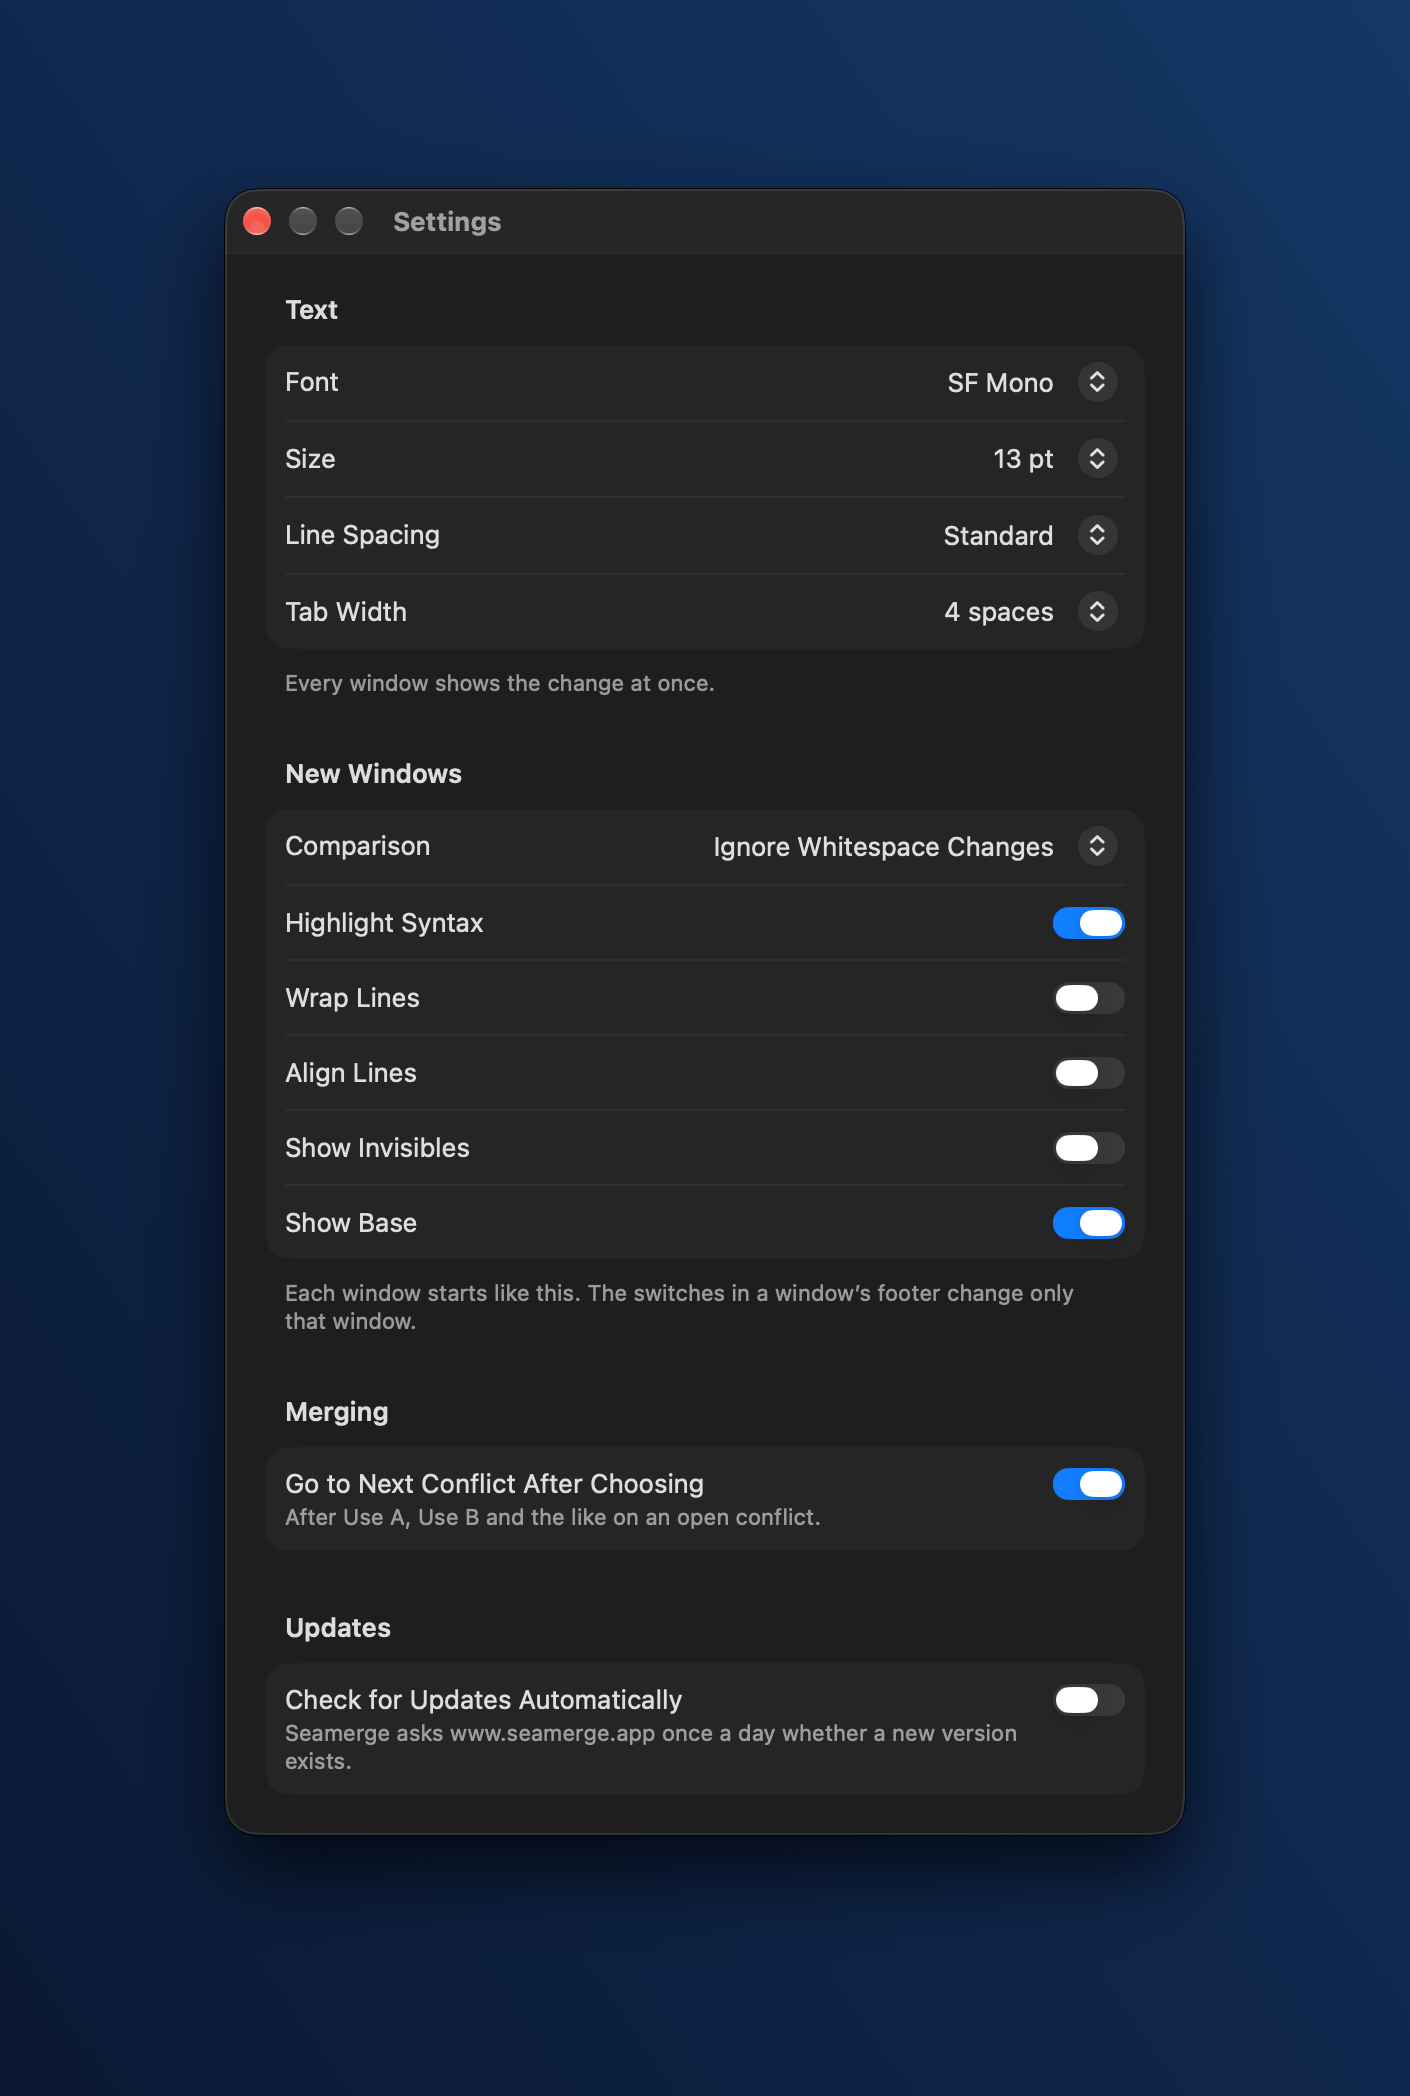
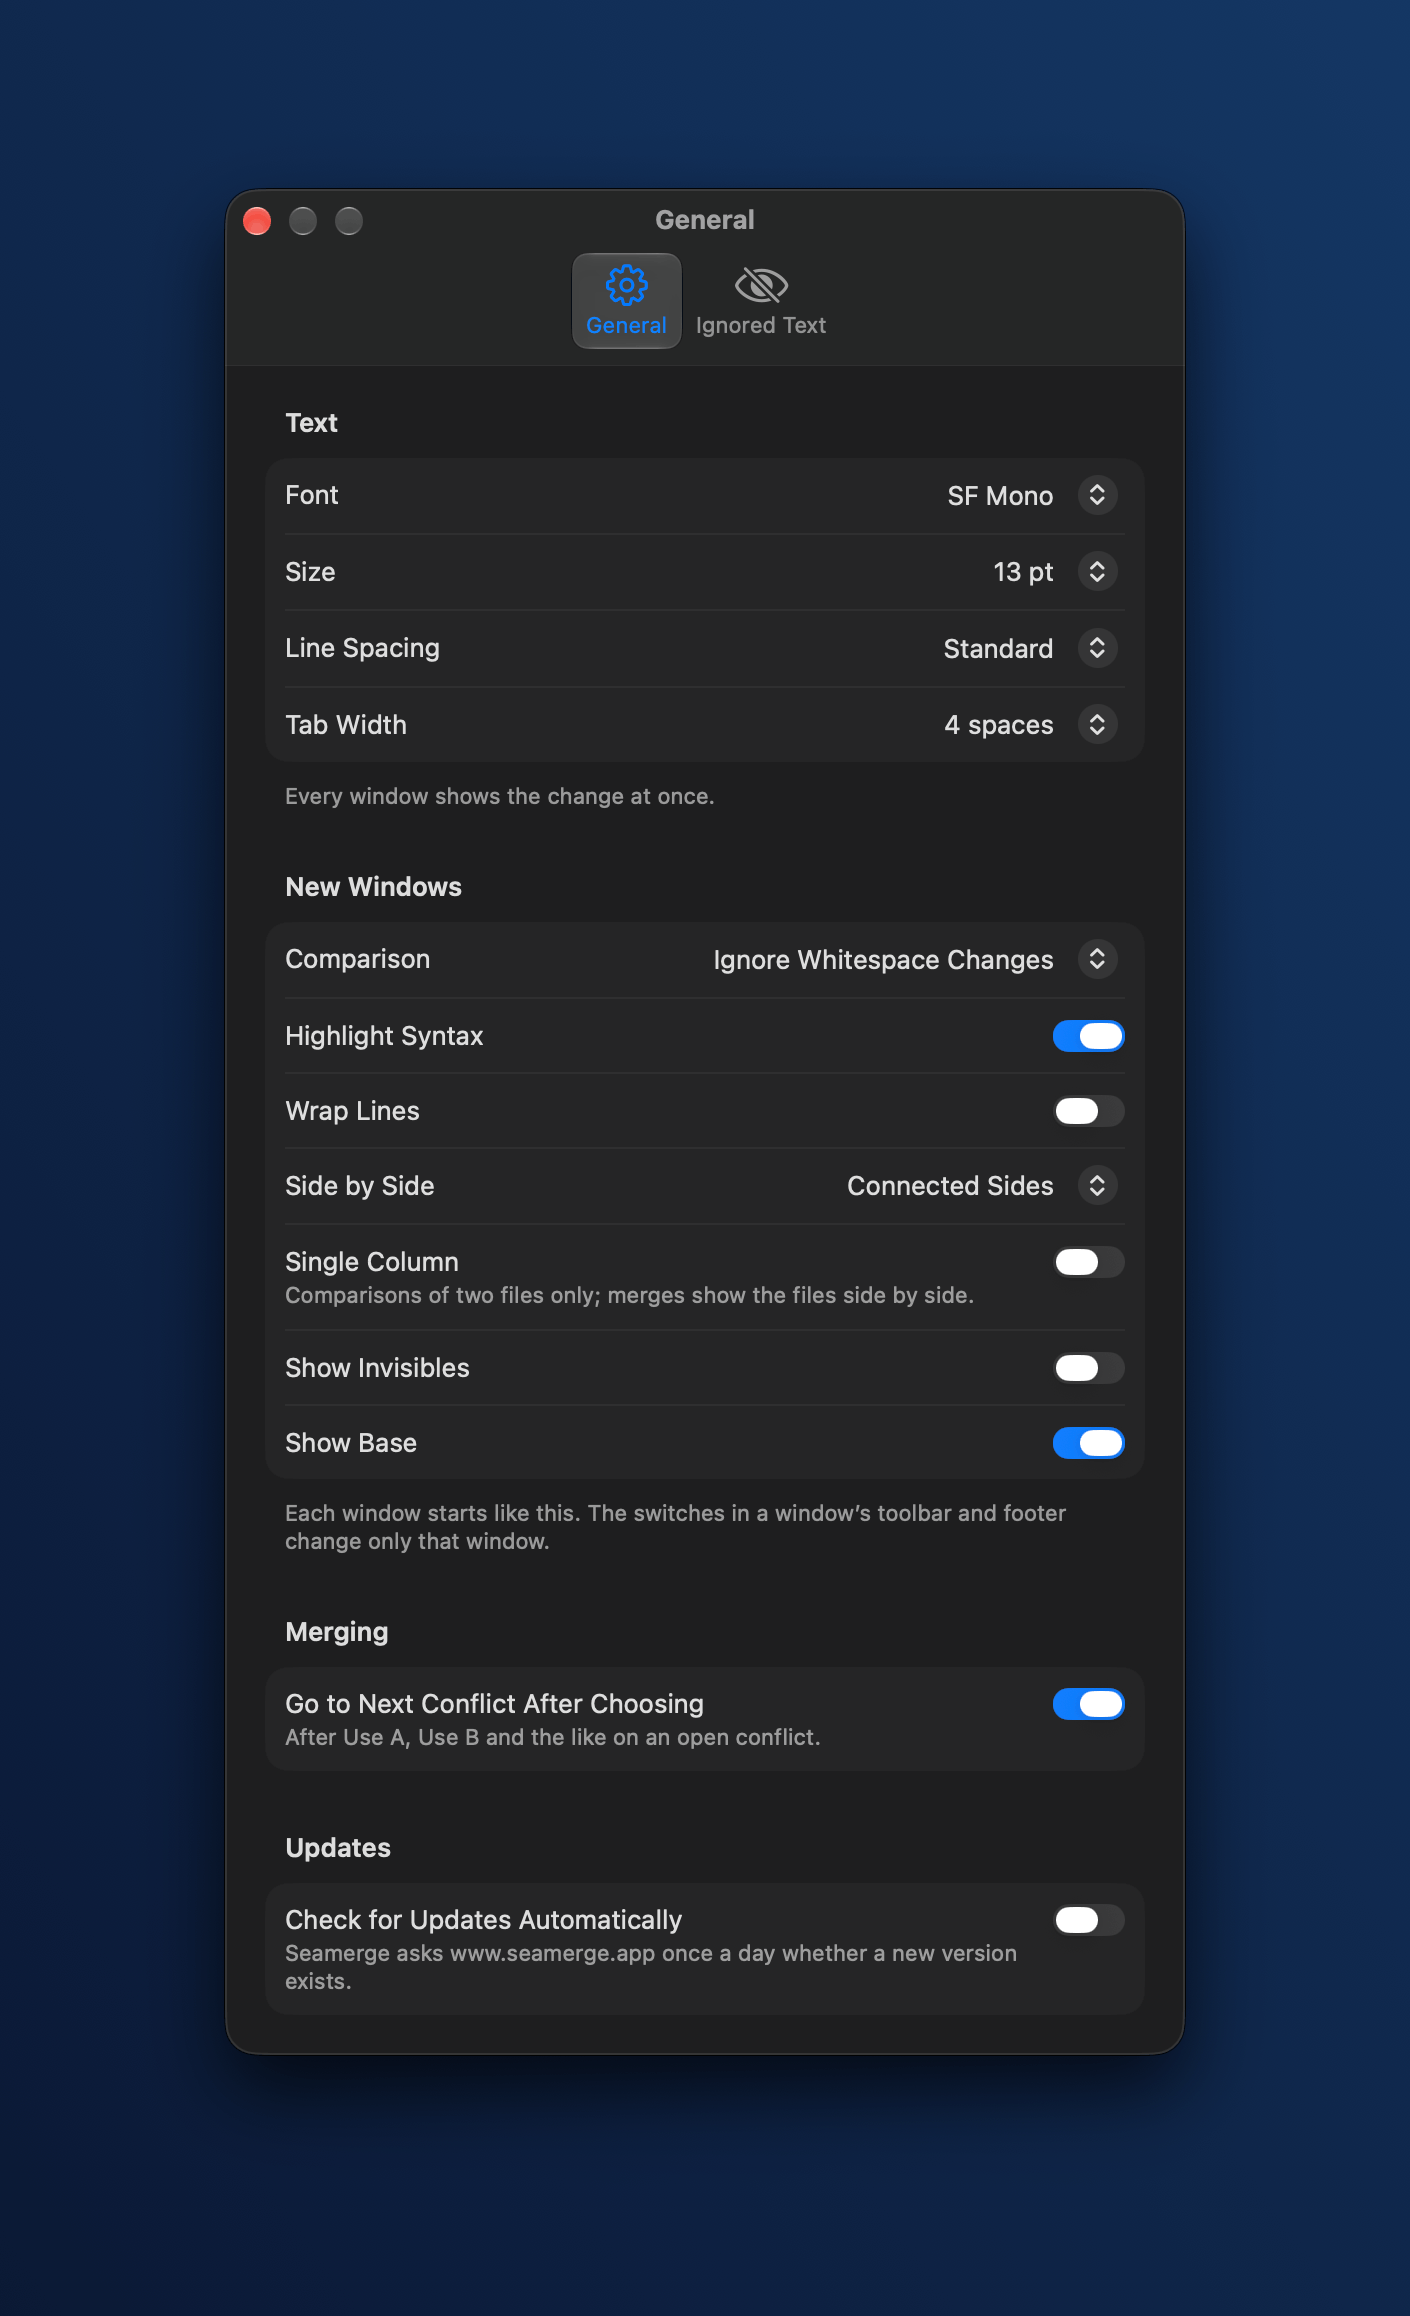
docs: show 0.4.0 in the screenshots
Take the screenshots again with the control for the line arrangement in
the toolbar and the two pages of Settings, and name the group Updates in
the description of the settings picture.

diff --git a/README.md b/README.md
@@ -168,7 +168,7 @@ Choose **Seamerge ▸ Settings…** (`⌘,`) to change how the code looks and ho
 
   <picture>
     <source media="(prefers-color-scheme: dark)" srcset="Documentation/Images/screenshot-settings-dark.png">
-    <img src="Documentation/Images/screenshot-settings-light.png" width="480" alt="The Settings window with the groups Text, New Windows and Merging.">
+    <img src="Documentation/Images/screenshot-settings-light.png" width="480" alt="The Settings window on its page General, with the groups Text, New Windows, Merging and Updates.">
   </picture>
 
 - **Text:** the font of the code (SF Mono, or another monospaced font installed on the Mac), its size from 9 to 24 pt, the line spacing (compact, standard or spacious) and the tab width from 2 to 8 spaces. A window keeps the zoom you chose until the size in Settings changes.
